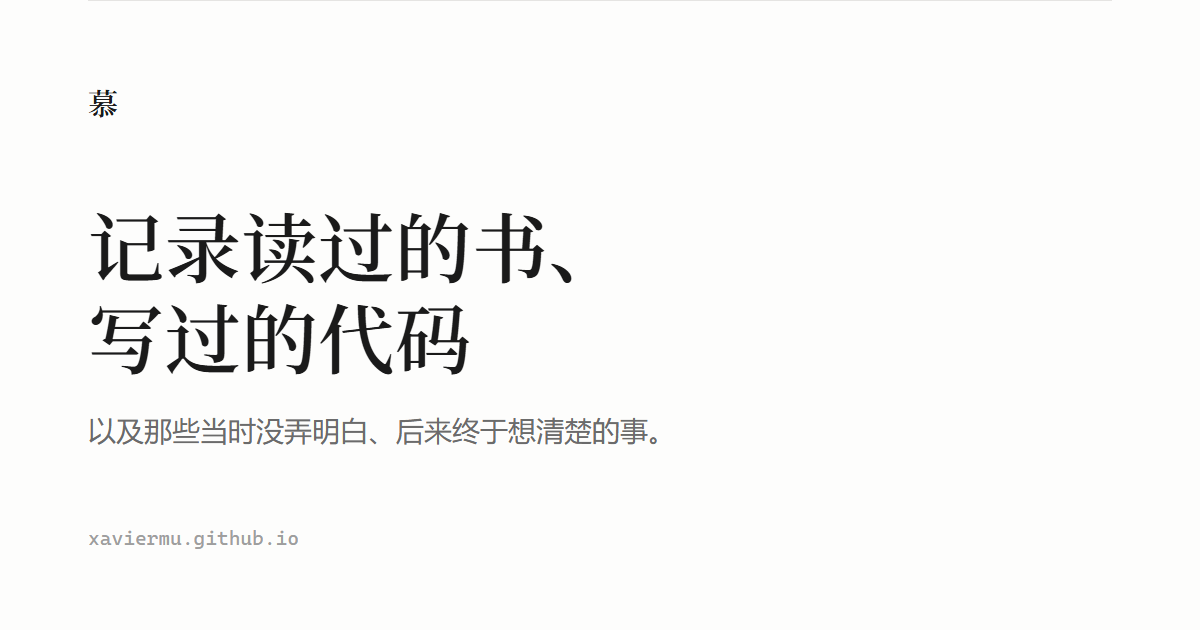
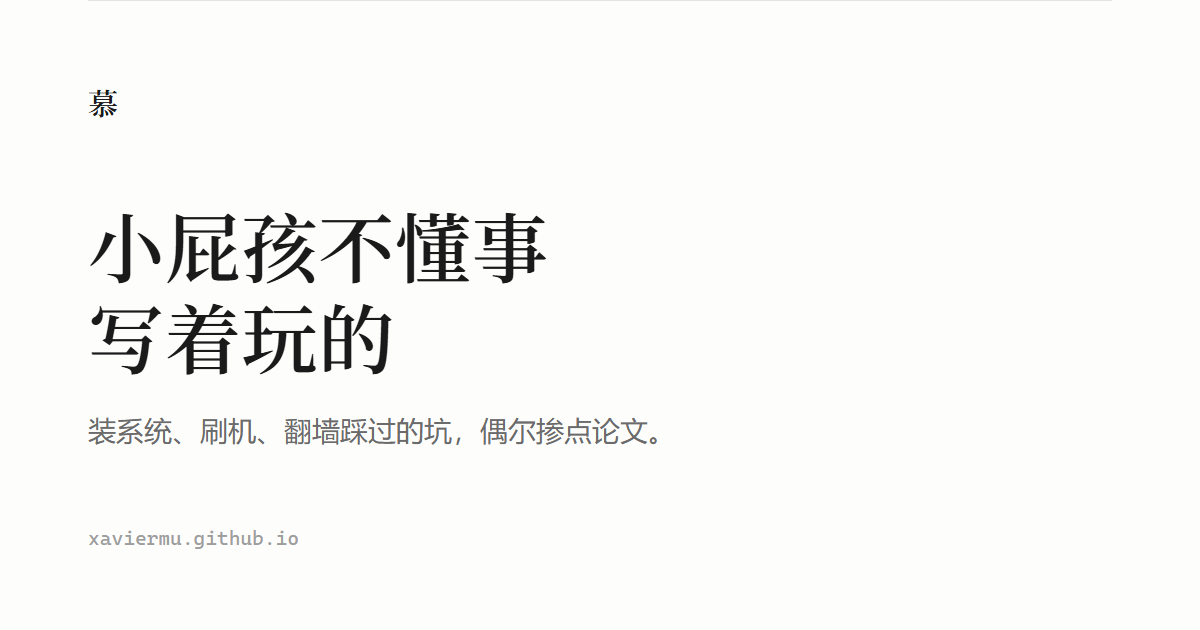
feat: 全站文案改为直白口吻，关于页注明文章由 AI 撰写

Changed region(s): [[0.0617, 0.3317, 0.4933, 0.4524], [0.1233, 0.4825, 0.4008, 0.6032], [0.0617, 0.6635, 0.555, 0.7238]]

diff --git a/src/data/site.ts b/src/data/site.ts
@@ -16,7 +16,7 @@ export interface NavItem {
 
 export const site = {
   title: '慕',
-  description: '一个用来存放笔记与作品的地方。',
+  description: '折腾电脑手机的流水账，装系统、刷机、翻墙，坏的都记在这儿。论文实验慢慢放。',
   author: '慕',
   /** 部署地址：这是站点根地址，决定 canonical / RSS / sitemap 的链接 */
   url: 'https://xaviermu.github.io',
@@ -27,7 +27,7 @@ export const site = {
     // 以下两项为可选：留空字符串即不渲染
     subtitle: '',
     focus: '',
-    intro: '记录读过的书、写过的代码，和想清楚的事。',
+    intro: '装系统、刷机、root、翻墙都干过，也弄坏过几台，记在这儿。其实文章都是 AI 写的，包括这句。论文和实验慢慢放。',
   },
 
   social: [
@@ -69,16 +69,16 @@ export const copy = {
 
   blog: {
     title: '文章',
-    description: '技术文章、论文笔记与工程实践。',
+    description: '装系统、刷机、翻墙、虚拟机这些动手活居多，偶尔掺点读论文和做实验的记录。',
     count: (n: number) => `共 ${n} 篇`,
-    empty: '还没有文章。',
+    empty: '一篇都没有，作者还在摸鱼。',
   },
 
   archive: {
     title: '归档',
-    description: '全部文章按时间归档。',
+    description: '按时间倒着排，越往下越老。',
     count: (n: number) => `共 ${n} 篇`,
-    empty: '还没有文章。',
+    empty: '空的，连灰都没有。',
     aside: { years: '每年', tags: '标签', stats: '统计' },
     statLabels: { posts: '文章', tags: '标签' },
     /** 一月 … 十二月，归档页按月分组用 */
@@ -90,18 +90,18 @@ export const copy = {
 
   tags: {
     title: '标签',
-    description: '全部文章标签，按文章数量排序。',
+    description: '文章不多，标签倒不少。',
     count: (n: number) => `共 ${n} 个`,
     empty: '还没有标签。',
     aside: { top: '最多使用', recent: '最近新增', note: '说明' },
-    note: '标签字号随文章数量缩放，用得越多的标签字号越大。',
+    note: '字越大代表那类文章越多，纯属视觉把戏。',
   },
 
   projects: {
     title: '项目',
-    description: '做过的项目：解决的问题、采用的技术与结果。',
+    description: '自己写着用的两个小工具，能用，谈不上好用。',
     count: (n: number) => `共 ${n} 个`,
-    empty: '还没有项目。',
+    empty: '还没动手做过什么。',
     aside: { stack: '技术栈', status: '状态', years: '年份' },
   },
 
@@ -113,22 +113,22 @@ export const copy = {
 
   search: {
     title: '搜索',
-    description: '站内全文搜索。',
-    hint: '支持中文分词，输入关键词即可。',
+    description: '站内搜一下，找不到也别怪我。',
+    hint: '直接敲关键词，中文也认。',
   },
 
   about: {
     title: '关于',
-    fallbackDescription: (author: string) => `关于 ${author}，以及这个站点写了些什么。`,
+    fallbackDescription: (author: string) => `${author}：折腾电脑手机，也弄坏过几台机器。`,
     aside: { contact: '联系', site: '本站' },
   },
 
   notFound: {
     title: '404 · 页面不存在',
-    description: '你要找的页面不存在。',
-    heading: '页面不存在',
-    body: '链接可能已失效，或者这个页面还没写。',
+    description: '这页没了，可能是你自己敲错了。',
+    heading: '这页不存在',
+    body: '要么链接失效了，要么这页压根没写过。',
     links: { home: '首页', posts: '全部文章', archive: '归档', tags: '标签', latest: '最近一篇' },
-    recentTitle: '也许你想看',
+    recentTitle: '要不看看这些',
   },
 };

diff --git a/scripts/og-template.html b/scripts/og-template.html
@@ -101,8 +101,8 @@
     <div class="brand">慕</div>
 
     <div class="main">
-      <div class="title">记录读过的书、<br />写过的代码</div>
-      <div class="desc">以及那些当时没弄明白、后来终于想清楚的事。</div>
+      <div class="title">小屁孩不懂事<br />写着玩的</div>
+      <div class="desc">装系统、刷机、翻墙踩过的坑，偶尔掺点论文。</div>
     </div>
 
     <div class="footer">

diff --git a/src/content/pages/about.md b/src/content/pages/about.md
@@ -1,22 +1,38 @@
 ---
 title: 关于
-description: 这个站写了什么，以及为什么这么写。
+description: 一个折腾电脑手机的人，和他弄坏过的几台机器。
 updatedDate: 2026-11-11
 ---
 
-## 简介
+## 我是谁
 
-我是慕。这里用来存放读过的书、写过的代码，以及那些当时没弄明白、后来终于想清楚的事。
+慕。折腾电脑和手机，装系统、刷机、root、翻墙都干过，也弄坏过几台。
 
-写作的原则很简单：写清楚自己卡在哪一步，而不是复述一份看起来正确的说明书。所以这里的文章多半带着具体的坑和不太体面的调试过程。
+这里记的都是我自己踩过的坑，换台机器不一定管用。
 
-## 这里有什么
+## 这里写什么
 
-- **文章**：读书笔记、动手时遇到的问题，以及一些不太成熟的思考。
-- **项目**：做过的练习与实验，重点写清楚解决了什么问题、卡在哪里、回头会怎么改。
+- 折腾：手机变砖、电脑开不了机，以及后来怎么救回来的。
+- 论文和实验：读过的论文、做过的实验，慢慢放，更得慢。
+- 项目：两个自己用的小工具，一个找片源，一个打通网络。能用就行。
 
-## 关于写作
+折腾占大多数，论文和项目还少。
 
-- 不追求更新频率，宁可写得少，也要写得明白。
-- 尽量给出能复现的步骤和具体的数字，少说空话。
-- 如果发现旧文有错，会直接改，并注明更新日期。
+## 怎么写
+
+- 出错了照实写，包括「不知道为什么，重装就好了」这种。
+- 不写「适当调整」这种废话，能写死就写死。
+- 版本号写清楚，过俩月我自己也记不住。
+- 写错了就改，改动大了标个日期。
+
+## 免责声明
+
+写着玩的，别当真。
+
+- 动手的：照着做出事，自己负责。
+- 论文笔记：只是我的理解，可能有错，以原文为准。
+- 版权：不碰。
+
+其实文章都是 AI 写的，包括你看到的这段话。
+
+就这样。
